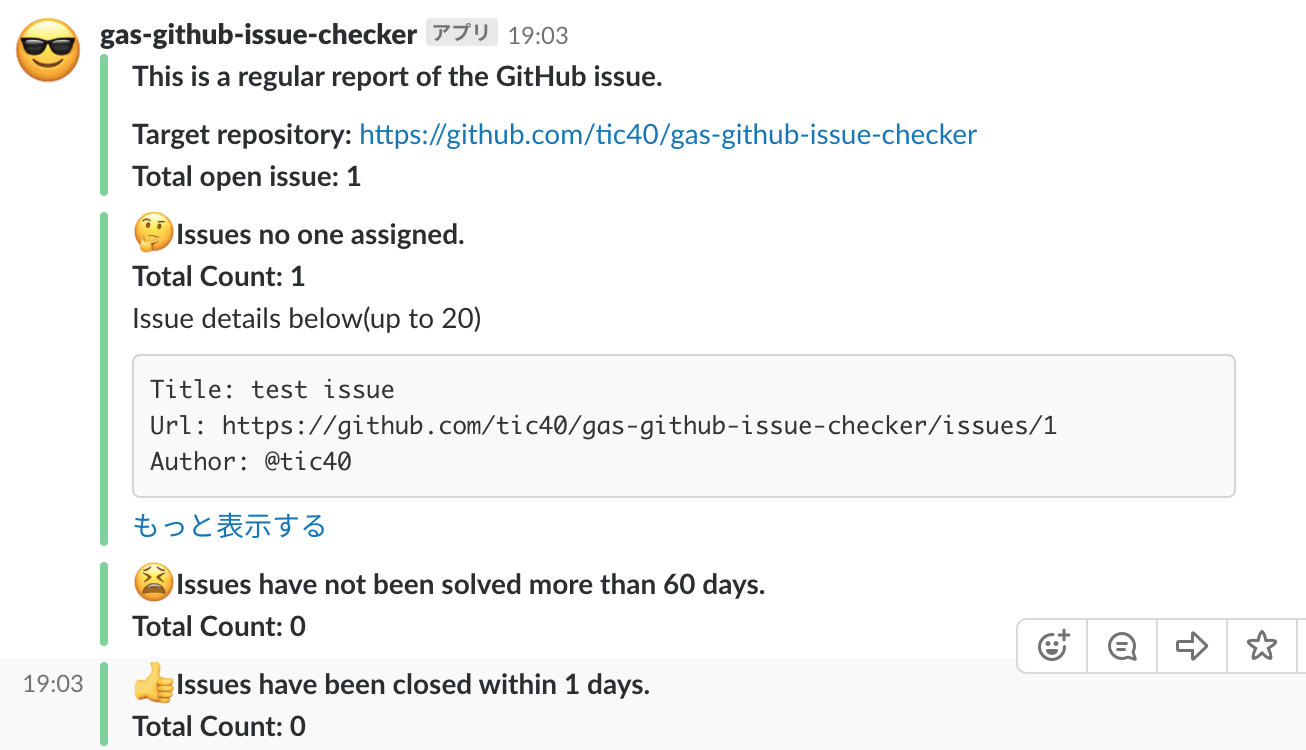
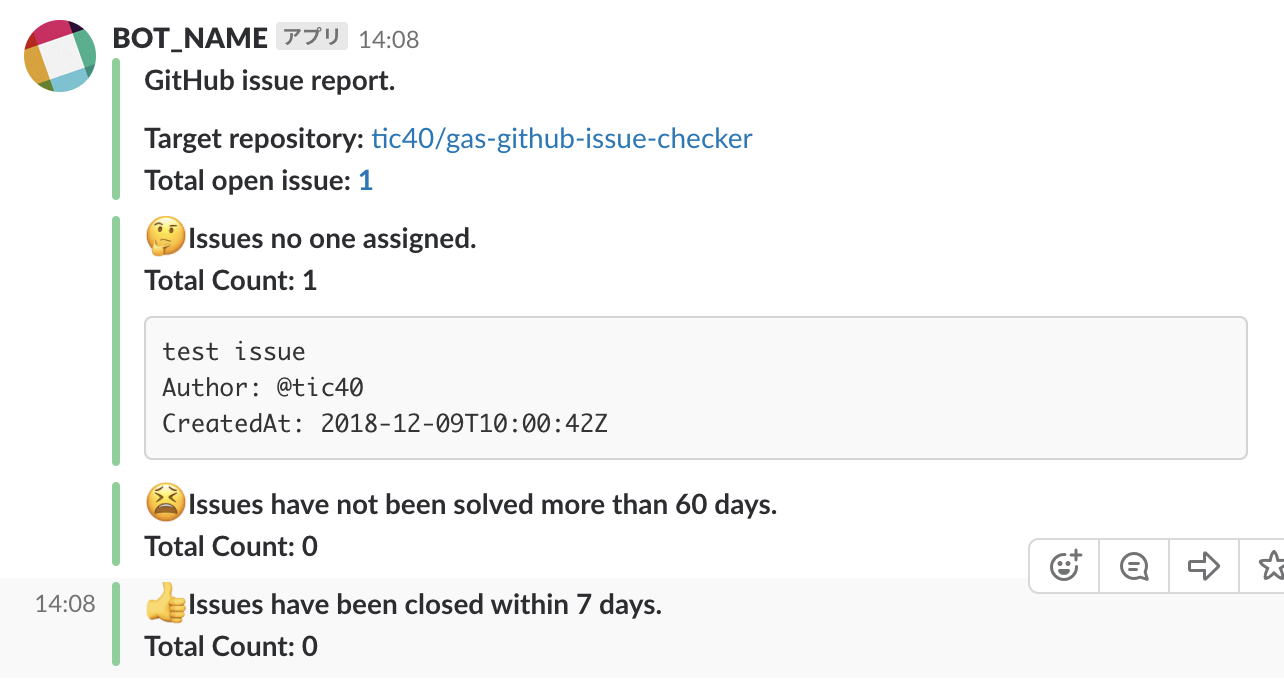
Some updates

Changed region(s): [[0.0, 0.0, 0.9657, 1.0], [0.7788, 0.7653, 1.0, 0.8878]]

diff --git a/src/index.ts b/src/index.ts
@@ -14,6 +14,7 @@ const GITHUB_GRAPHQL_API_MAX_LIMIT: number = 100
 
 const OLD_ISSUE_DAYS: number = Number(properties.getProperty('OLD_ISSUE_DAYS')) || 60
 const RECENT_CLOSED_ISSUE_DAYS: number = Number(properties.getProperty('RECENT_CLOSED_ISSUE_DAYS')) || 1
+const DISPLAY_ISSUE_MAX_NUMBER: number = Number(properties.getProperty('DISPLAY_ISSUE_MAX_NUMBER')) || 50
 
 const inDays = (dateString: string, days: number): boolean => {
   const comparisonDate = new Date()
@@ -87,29 +88,27 @@ const fetchIssues = ({ queryArgs, recursive = false }: { queryArgs: any, recursi
 }
 
 const formatMessage = ({ title, issues }: { title: string, issues: any[] }): string => {
-  const displayIssueMaxCount: number = 30
   return [
     `*${title}*`,
     `*Total Count: ${issues.length}*`,
-    issues.length > 0 ? `Issue details below(up to ${displayIssueMaxCount})` : null,
-    issues.slice(0, displayIssueMaxCount).map((issue) => createBaseIssueMessage(issue)).join('\n'),
+    issues.length > DISPLAY_ISSUE_MAX_NUMBER ? `Display details up to ${DISPLAY_ISSUE_MAX_NUMBER}.` : null,
+    issues.slice(0, DISPLAY_ISSUE_MAX_NUMBER).map((issue) => createBaseIssueMessage(issue)).join('\n'),
   ].filter((v) => v).join('\n')
 }
 
 const createBaseIssueMessage = (issue: any): string => {
-  const separator: string = ', '
+  const separator: string = ' '
   const labels: string = issue.labels.nodes.map((label) => label.name).join(separator)
   const assignees: string = issue.assignees.nodes.map((assignee) => `@${assignee.resourcePath.slice(1)}`).join(separator)
   return [
     '```',
-    `Title: ${issue.title}`,
-    `Url: ${issue.url}`,
+    `<${issue.url}|${issue.title}>`,
     `Author: @${issue.author.resourcePath.slice(1)}`,
     assignees ? `Assignees: ${assignees}` : null,
     labels ? `Labels: ${labels}` : null,
     `CreatedAt: ${issue.createdAt}`,
     // `UpdatedAt: ${issue.updatedAt}`,
-    issue.closedAt ? `ClosedAt: ${issue.closedAt}` : null,
+    // issue.closedAt ? `ClosedAt: ${issue.closedAt}` : null,
     '```',
   ].filter((v) => v).join('\n')
 }
@@ -190,10 +189,11 @@ function main(): void {
     recursive: false,
   })
 
+  const repository: string = `${GITHUB_REPOSITORY_OWNER}/${GITHUB_REPOSITORY_NAME}`
   const firstMessage: string = [
-    '*This is a regular report of the GitHub issue.*\n',
-    `*Target repository:* https://github.com/${GITHUB_REPOSITORY_OWNER}/${GITHUB_REPOSITORY_NAME}`,
-    `*Total open issue: ${openIssues.totalCount}*`,
+    '*GitHub issue report.*\n',
+    `*Target repository:* <https://github.com/${repository}|${repository}>`,
+    `*Total open issue: <https://github.com/${repository}/issues?q=is%3Aopen+is%3Aissue|${openIssues.totalCount}>*`,
   ].join('\n')
   const messageNoAssigneeIssue: string = createMessageNoAssigneeIssue(openIssues.nodes)
   const messageOldIssue: string = createMessageOldIssue(openIssues.nodes)
